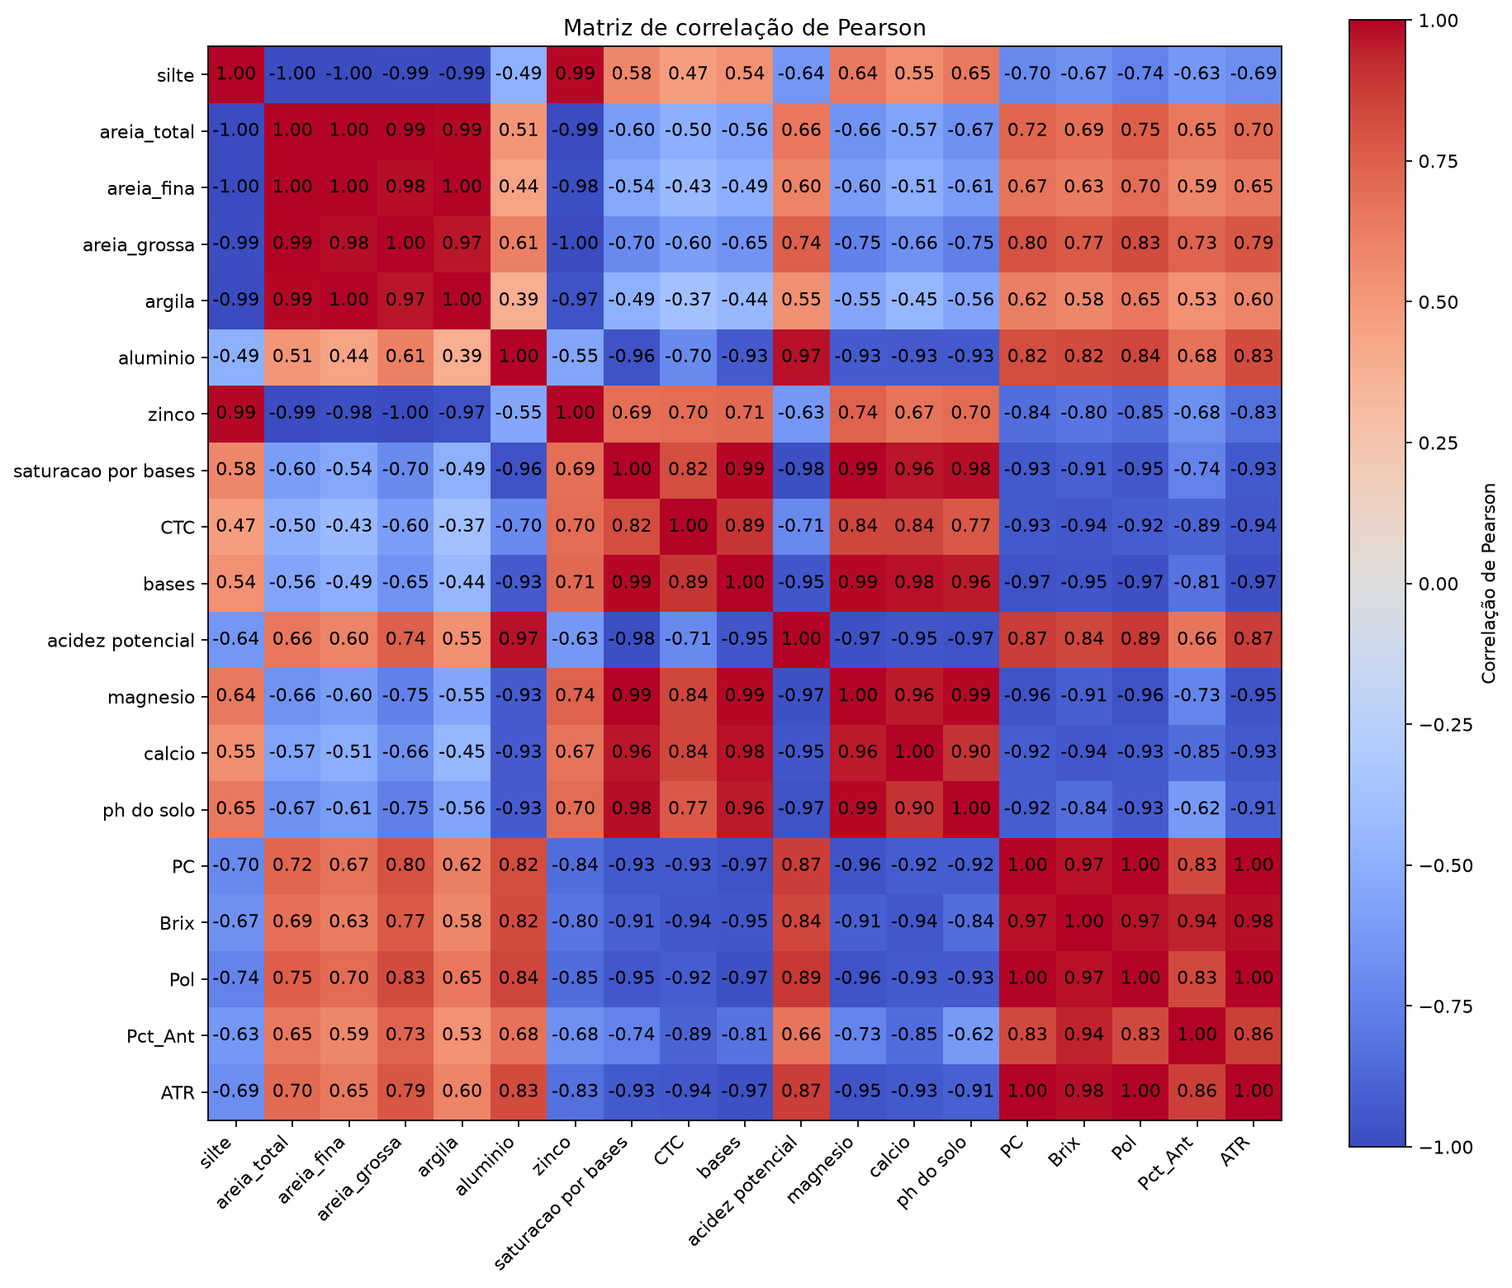
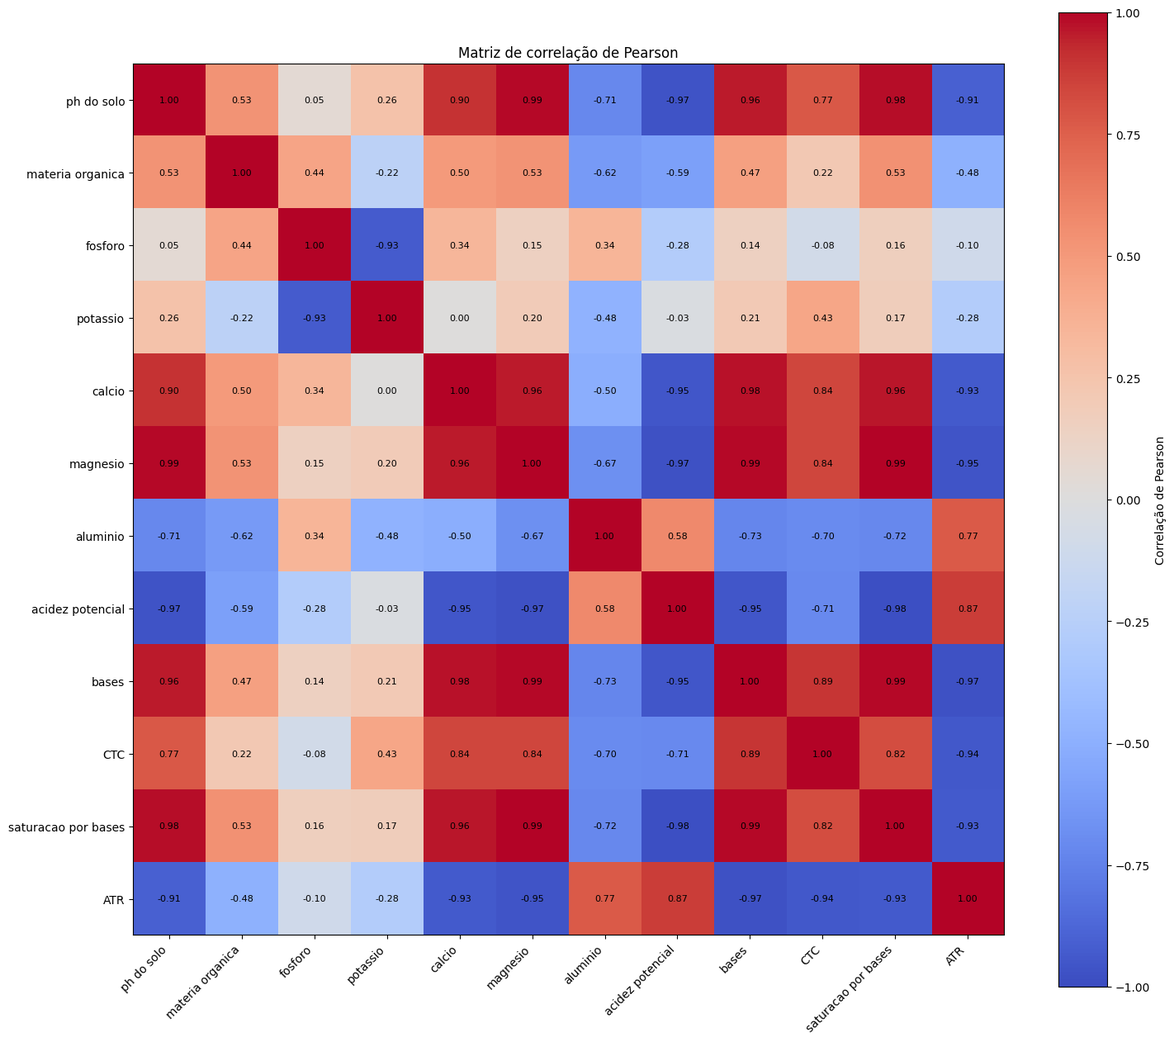
docs: atualiza README e inclui gráficos do notebook

diff --git a/README.md b/README.md
@@ -1,10 +1,10 @@
-# Projeto Integrador I — Solo, soqueira e ATR da cana-de-açúcar
+# Projeto Integrador I — Solo, características da cana e ATR da cana-de-açúcar
 
-Repositório do artigo “Análise da influência das características do solo e da saúde da soqueira no ATR da cana-de-açúcar”, desenvolvido em 2026 no Curso Superior de Tecnologia em Ciência de Dados para o Agronegócio da FATEC Catanduva.
+Repositório do artigo “Análise da influência das características do solo no ATR da cana-de-açúcar”, desenvolvido em 2026 no Curso Superior de Tecnologia em Ciência de Dados para o Agronegócio da FATEC Catanduva.
 
 ## Objetivo e escopo
 
-Analisar a influência dos atributos do solo e da saúde da soqueira no ATR (Açúcar Total Recuperável, em kg/t de cana) e avaliar sua estimativa antes da colheita, apoiando o planejamento da produção e da receita do produtor.
+Analisar a influência dos atributos do solo e das características do solo no ATR (Açúcar Total Recuperável, em kg/t de cana) e avaliar sua estimativa antes da colheita, apoiando o planejamento da produção e da receita do produtor.
 
 O artigo propõe uma pesquisa aplicada e quantitativa, exploratória, descritiva e preditiva, em estudo de caso em Marapoama-SP, região de Catanduva, com dados fornecidos pela Associação dos Fornecedores de Cana da Região de Catanduva (AFCRC). A unidade analítica prevista é uma linha por talhão e safra.
 
@@ -12,79 +12,95 @@ O artigo propõe uma pesquisa aplicada e quantitativa, exploratória, descritiva
 
 O estudo adota o CRISP-DM para organizar entendimento do negócio e dos dados, preparação, modelagem, avaliação e implantação, conforme o avanço do projeto.
 
-- **Dados:** laudos de solo, registros de soqueira e manejo e boletins de ATR; precipitação como variável complementar, se disponível.
+- **Dados:** laudos de solo, características do solo e manejo e boletins de ATR; precipitação como variável complementar, se disponível.
 - **Preparação:** limpeza, padronização de unidades e identificação dos talhões, análise de ausências e inconsistências e integração por talhão e safra.
 - **Análise e modelo:** estatística descritiva, correlações de Pearson/Spearman e regressão linear simples para estimar o ATR a partir de uma única variável explicativa, ainda a definir. Os demais atributos podem ser explorados sem integrar simultaneamente esse modelo.
 - **Avaliação:** treino/teste na proporção 80/20 proposta no artigo e métricas R², MAE e RMSE. A divisão em treino/teste e as métricas MAE e RMSE ainda precisam ser implementadas, com uma estratégia de separação que considere a ordem temporal dos dados. O R² atual é calculado na própria amostra de ajuste.
 
-## Estado atual e dados
+## Notebook e dados
 
-O [notebook](notebooks/CYBEL.ipynb) contém células de texto que contextualizam cada etapa e implementa:
+O [notebook CYBEL](notebooks/CYBEL.ipynb) explora associações entre atributos do solo, indicadores da cana entregue à usina e ATR. A unidade da análise principal é o **ano civil**. A tabela `dados_anual` reúne seis anos em comum, de 2020 a 2025. O relatório de cana também inclui 2026, mas a base de solo não tem registros pareados para esse ano.
 
-- Leitura e conferência dos CSVs, incluindo dimensões, colunas e valores ausentes.
-- Preparação das tabelas anuais: médias do solo por propriedade, talhão e ano, seguidas de médias anuais; somas e médias ponderadas pela tonelagem para os indicadores da cana.
-- Correlações de Pearson calculadas com laços, gráficos de barras e matriz de correlação.
-- Conferência descritiva do Brix e de sua correlação com o ATR na tabela original de cana, sem a agregação anual.
-- Gráficos de dispersão do ATR em relação à acidez potencial, ao fósforo, ao potássio e ao pH do solo, com identificação dos pontos pelo ano.
-- Cinco ajustes de regressão linear simples, um para cada atributo: pH do solo, acidez potencial, fósforo, potássio e argila. O NumPy ajusta as retas por mínimos quadrados (`np.polyfit`), e cada gráfico apresenta a tendência, o R² e o número de observações; a equação é impressa na saída.
+| Arquivo em `dados tratados` | Conteúdo                                                                                                                            |
+| ----------------------------- | ------------------------------------------------------------------------------------------------------------------------------------ |
+| `DADOS_SOLO_tratados.csv`   | Laudos de solo com data da amostragem, propriedade, talhão, variedade e atributos químicos e de textura.                           |
+| `Cana.csv`                  | Relatório de cana com período, fazenda, tonelagem, cargas e indicadores de qualidade, incluindo ATR.                               |
+| `ART.csv` (opcional)        | Preços relacionados ao ATR por período. Esses valores ficam disponíveis para consulta e não entram nos cálculos desta análise. |
 
-Já há regressões ajustadas, mas ainda não há avaliação em dados de teste. O R² apresentado descreve o ajuste nos mesmos dados utilizados para calcular a reta. Não há divisão em treino/teste, cálculo de MAE/RMSE ou correlação de Spearman implementados. Cada regressão utiliza apenas um atributo; não há modelo com todos os atributos simultaneamente.
+Os arquivos de `dados brutos` ficam fora do versionamento. As figuras do README ficam em `img`.
 
-A integração atual é por ano civil, extraído das datas de solo e do fim do período da cana, e difere da unidade por talhão e safra prevista no artigo. Embora alguns rótulos dos gráficos usem “safras”, os pontos representam anos civis.
+## Guia do notebook
 
-As fontes disponíveis ainda não formam a base por talhão e safra exigida: faltam registros de soqueira/manejo e ATR correspondente por talhão. O ATR agregado não deve ser repetido em cada amostra de solo para criar exemplos de treinamento.
+Os blocos de texto do notebook explicam cada uma das 15 etapas de execução. A tabela resume a sequência e as principais saídas.
 
-Os dados originais ficam locais, fora do versionamento. A base fictícia também não é distribuída no repositório. Antes da integração, será necessário harmonizar nomes e unidades: o artigo denomina o alvo `atr`, enquanto o notebook atual usa `ATR`.
-
-```text
-dados brutos/     # Fontes originais locais, excluídas do Git
-dados tratados/   # CSVs de solo e cana utilizados pelo notebook
-notebooks/       # Notebook com contextualização, código e saídas
-img/             # Imagens da documentação
-resultados/      # Resultados locais, excluídos do Git
-```
-
-## Resultados exploratórios
-
-Os gráficos abaixo foram gerados pelo notebook com as bases locais. O pareamento anual abrange 2020 a 2025, com seis observações; as variáveis de textura têm somente três anos válidos. As correlações não demonstram causalidade nem desempenho de um modelo preditivo.
-
-Atributos do solo e ATR. As barras apresentam a correlação de Pearson e o número de anos válidos (`n`) para cada atributo.
-
-![Correlação dos atributos do solo com o ATR](img/correlacao_solo_atr.png)
-
-Indicadores da cana e ATR. PC, Pol e Brix apresentam associações positivas elevadas nesta amostra. São indicadores ligados à qualidade e ao cálculo do ATR; essas associações não comprovam previsão antes da colheita.
-
-![Correlação dos indicadores da cana com o ATR](img/correlacao_cana_atr.png)
-
-Matriz de correlação. Resume as associações entre as variáveis selecionadas, permitindo observar também relações entre possíveis entradas do modelo. Cada par utiliza os anos com valores disponíveis.
-
-![Matriz de correlação de Pearson](img/matriz_correlacao_pearson.png)
-
-Dispersões e regressões. As novas visualizações estão nas saídas do [notebook](notebooks/CYBEL.ipynb). Os gráficos de dispersão mostram os pares anuais disponíveis e a correlação de Pearson. Os gráficos de regressão acrescentam a reta ajustada, sua equação e o R² na própria amostra. O ajuste exige pelo menos três observações; a regressão com argila utiliza somente os três anos com dados de textura. Esses resultados ainda não validam uma estimativa de ATR em anos futuros.
-
-Os resumos são unidos apenas pelo ano, sem validar correspondência entre propriedades. Portanto, estes resultados são preliminares e precisam dessa conferência antes de interpretações agronômicas.
+| Etapas                                     | O que o notebook faz                                                                                                                                                                                                                                                                                                                                                                             |
+| ------------------------------------------ | ------------------------------------------------------------------------------------------------------------------------------------------------------------------------------------------------------------------------------------------------------------------------------------------------------------------------------------------------------------------------------------------------ |
+| 1–2. Leitura e integração               | Lê os CSVs, confere cabeçalhos e ausências e filtra as linhas de fazenda para excluir os totais do relatório. Calcula médias de solo por propriedade, talhão e ano e dá o mesmo peso a cada grupo com valor disponível. Soma toneladas e cargas e pondera os indicadores da cana pela tonelagem. Combina as tabelas pelo ano da amostragem do solo e pelo ano de `Data_Final` da cana. |
+| 3–5. Variedades e médias                 | Resume atributos do solo em `media_anual_por_variedade` e conta os talhões amostrados por variedade em cada ano. Compara essa participação com o ATR anual agregado da fazenda. Calcula também as médias dos valores disponíveis em `dados_anual`.                                                                                                                                     |
+| 6–9. Correlações                        | Calcula Pearson para os pares anuais disponíveis, imprime o coeficiente e a contagem de pares e gera gráficos de barras e um mapa de calor. O cálculo exige pelo menos três pares e variação nas duas séries.                                                                                                                                                                             |
+| 10–13. Dispersões e regressões          | Mostra pontos identificados pelo ano e tenta ajustar uma regressão linear simples para cada atributo selecionado. Cada ajuste usa um atributo por vez e exige pelo menos três pares. A equação e o R² são calculados na amostra de ajuste.                                                                                                                                                 |
+| 14–15. Conferência e análise por grupos | Lista os anos com alumínio disponível e procura um CSV detalhado para calcular ATR ponderado por variedade, corte e safra. A etapa exige `Talhao`, `Variedade`, `Corte`, `Ton`, `ATR` e uma referência de safra (`Safra`, `Ano` ou `Data_Final`).                                                                                                                             |
 
 ## Resultados e discussão
 
-O pareamento dos dados de solo e de cana resultou em seis observações anuais, de 2020 a 2025. O ano de 2026 ficou fora dessa comparação por não haver registros de solo correspondentes. A unidade efetivamente analisada foi o ano civil, e não uma safra delimitada por calendário agrícola. A média aritmética dos seis valores anuais de ATR foi de 134,32 kg/t de cana, atribuindo o mesmo peso a cada ano. O ATR aumentou de 138,4 kg/t em 2020 para 143,7 kg/t em 2022, seguido de reduções sucessivas até atingir 122,7 kg/t em 2025.
+As figuras abaixo foram extraídas das saídas salvas no notebook. A média aritmética dos seis valores anuais de ATR foi **134,32 kg/t de cana**. O ATR passou de 138,4 kg/t em 2020 para 143,7 kg/t em 2022 e caiu nos anos seguintes, chegando a 122,7 kg/t em 2025.
 
-Entre os cinco atributos selecionados para as regressões simples, o pH do solo apresentou forte associação linear negativa com o ATR (r = −0,906). A reta ajustada teve inclinação de −26,10, correspondendo a uma diferença estimada de −26,10 kg/t de ATR para cada unidade adicional de pH, dentro do intervalo observado. A acidez potencial apresentou forte associação positiva (r = 0,868), com inclinação de 2,24 kg/t de ATR por unidade do atributo registrada na base. Essas relações descrevem a variação conjunta das médias anuais e não demonstram que alterações no pH ou na acidez tenham causado mudanças no ATR. Tampouco fundamentam recomendações de manejo para aumentar a acidez ou reduzir o pH.
+### Variedades dos talhões amostrados
 
-As associações do fósforo (r = −0,098) e do potássio (r = −0,278) com o ATR foram fracas na amostra analisada. Suas regressões apresentaram inclinações de −0,19 e −2,95 kg/t de ATR por unidade do respectivo atributo. A magnitude dessas inclinações depende das unidades e escalas das variáveis e, por isso, não permite comparar diretamente sua importância. Para a argila, a correlação foi positiva (r = 0,599), com inclinação de 0,06 kg/t por unidade registrada na base. Esse ajuste utilizou **apenas três observações anuais**, o que restringe sua interpretação e reforça a necessidade de conferir os registros de textura antes de conclusões agronômicas.
+As barras mostram a participação de cada variedade na contagem de talhões amostrados com variedade identificada. A linha usa o eixo da direita e representa o ATR anual da fazenda, ponderado pelas toneladas. A participação pode variar com o esforço de amostragem. Para medir a participação na área plantada, seriam necessários dados de área por variedade.
 
-Os indicadores da cana Pol (r = 0,997), PC (r = 0,998) e Brix (r = 0,982) apresentaram correlações positivas elevadas com o ATR na tabela anual pareada. Como estão relacionados à qualidade tecnológica da cana e ao cálculo do ATR, essas associações não constituem evidências independentes de capacidade preditiva antes da colheita. A disponibilidade desses indicadores no momento em que se pretende estimar o ATR também precisa ser considerada em uma futura modelagem.
+![Participação das variedades nos talhões amostrados e ATR anual da fazenda](img/participacao_variedades_atr.png)
 
-Os gráficos de dispersão permitiram identificar os anos e examinar visualmente a direção das associações. As retas de regressão sintetizaram essas tendências, mas foram ajustadas com somente seis pontos — ou três, no caso da argila — e podem ser fortemente influenciadas por observações individuais. O R² foi calculado nos mesmos dados utilizados para ajustar cada reta; portanto, descreve o ajuste na própria amostra e não representa desempenho em anos novos. Não foram realizados divisão em treino/teste, cálculo de MAE/RMSE ou testes de significância estatística.
+### Correlações de Pearson
 
-A agregação anual também limita a interpretação: as médias não representam a variabilidade entre talhões, e a associação observada entre anos não pode ser automaticamente atribuída a cada talhão. Além disso, o pareamento foi realizado somente pelo ano, sem validação automática da correspondência entre propriedades. Informações de manejo, clima e saúde da soqueira não foram incorporadas a esses ajustes, de modo que sua participação nas variações do ATR permanece sem avaliação.
+Entre os atributos selecionados para regressão, pH (r = −0,906) e acidez potencial (r = 0,868) apresentaram as associações mais fortes com o ATR. Fósforo (r = −0,098) e potássio (r = −0,278) tiveram associações fracas. Para alumínio, r = 0,771 com quatro anos válidos. O resultado é sensível a poucos pontos e ao tratamento de 378 zeros como ausentes. Essa regra precisa ser conferida com o laboratório.
 
-## Conclusões
+![Correlação dos atributos do solo com o ATR](img/correlacao_solo_atr.png)
 
-A análise identificou associações entre o ATR e atributos médios anuais do solo no período de 2020 a 2025. Entre os cinco atributos escolhidos para regressão, pH e acidez potencial apresentaram as associações lineares mais fortes, com direções negativa e positiva, respectivamente. Fósforo e potássio apresentaram associações fracas, enquanto a análise de argila ficou limitada a três anos com dados disponíveis. Essa comparação se refere ao conjunto selecionado para regressão, e não a todos os atributos de solo explorados no notebook.
+PC (r = 0,998), Pol (r = 0,997) e Brix (r = 0,982) tiveram correlações elevadas. Esses indicadores estão ligados à qualidade tecnológica da cana e ao cálculo do ATR. Seu uso em um modelo pré-colheita dependeria de estarem disponíveis no momento da estimativa.
 
-Os resultados contribuem para descrever os padrões observados na base estudada e formular novas hipóteses. Entretanto, o número reduzido de observações, a agregação anual e a ausência de avaliação em dados independentes impedem concluir que os atributos do solo causaram as variações do ATR ou que as regressões estejam validadas para previsão antes da colheita. A influência da saúde da soqueira, prevista no objetivo do projeto, permanece uma etapa a investigar quando houver dados adequados.
+![Correlação dos indicadores da cana com o ATR](img/correlacao_cana_atr.png)
 
-Para avançar, propõe-se conferir a consistência e as unidades dos registros de textura, validar a correspondência entre propriedades e, conforme a disponibilidade das fontes, integrar solo e cana por **talhão e safra**. A ampliação da série histórica e a inclusão de informações de manejo, clima e saúde da soqueira podem apoiar uma análise mais completa. Uma futura avaliação preditiva deverá respeitar a ordem temporal dos dados e utilizar observações independentes, evitando atribuir ao solo efeitos que a análise atual não permite distinguir.
+A matriz mostra as associações entre um subconjunto dos atributos do solo e o ATR. Cada par usa os anos disponíveis para as duas variáveis, por isso os coeficientes podem ter números diferentes de observações. As células cinzas, com `s/d`, indicam coeficientes indisponíveis.
+
+![Mapa de calor das correlações de Pearson](img/matriz_correlacao_pearson.png)
+
+### Dispersões e regressões lineares
+
+Cada ponto representa um ano civil. As dispersões permitem identificar quais anos sustentam as tendências e observar pontos que se afastam dos demais.
+
+<details>
+<summary>Ver os quatro gráficos de dispersão</summary>
+
+![Dispersão de acidez potencial e ATR](img/dispersao_acidez_atr.png)
+![Dispersão de fósforo e ATR](img/dispersao_fosforo_atr.png)
+![Dispersão de potássio e ATR](img/dispersao_potassio_atr.png)
+![Dispersão de pH do solo e ATR](img/dispersao_ph_atr.png)
+
+</details>
+
+A execução salva gerou quatro regressões com seis observações cada. As inclinações foram −26,10 para pH, 2,24 para acidez potencial, −0,19 para fósforo e −2,95 para potássio, em kg/t de ATR por unidade do respectivo atributo. As escalas dos atributos diferem, portanto as inclinações não medem diretamente sua importância relativa. A argila tinha apenas dois anos válidos e ficou abaixo do mínimo de três para calcular a correlação e ajustar uma reta.
+
+![Regressão linear do ATR em função do pH do solo](img/regressao_ph_atr.png)
+
+<details>
+<summary>Ver os outros três gráficos de regressão</summary>
+
+![Regressão linear do ATR em função da acidez potencial](img/regressao_acidez_atr.png)
+![Regressão linear do ATR em função do fósforo](img/regressao_fosforo_atr.png)
+![Regressão linear do ATR em função do potássio](img/regressao_potassio_atr.png)
+
+</details>
+
+## Conclusões e limitações
+
+Os resultados descrevem associações entre médias anuais e ajudam a formular hipóteses. O pareamento pelo ano civil não confirma a correspondência por propriedade ou talhão, nem garante que a amostragem de solo antecedeu o período avaliado da cana. Com seis observações e R² calculado na própria amostra, os ajustes ainda precisam de avaliação em dados independentes para sustentar uma previsão. A análise atual também não incorpora medidas de saúde da soqueira.
+
+A composição das variedades pode ser descrita para os talhões amostrados. Para estimar ATR por variedade e corte, falta uma base de cana que identifique esses grupos e contenha as respectivas toneladas e medições de ATR. Na execução salva, a etapa final indicou a ausência de `Talhao`, `Variedade` e `Corte` na base de cana. Antes de interpretar os resultados agronomicamente, é necessário conferir a codificação dos zeros de alumínio, os registros de textura e as unidades dos laudos.
+
+## Execução no Google Colab
+
+Abra `notebooks/CYBEL.ipynb` no Colab e coloque os CSVs em `/content/ProjetoIntegrador_I/dados tratados` ou `/content/dados tratados`. A primeira célula lê os arquivos da pasta, detecta o separador e aceita UTF-8 com ou sem BOM. Execute as células em ordem. Após trocar os arquivos ou os critérios de tratamento, reexecute o notebook para atualizar as saídas.
 
 ## Execução no VS Code
 
@@ -102,14 +118,14 @@ Use **Run All / Executar Tudo** para executar todas as células em ordem, ou **S
 
 **Dependências do ambiente:** `requirements.txt` contém as bibliotecas diretamente utilizadas e o kernel necessário para executar o notebook no VS Code:
 
-| Ferramenta | Uso no projeto |
-| --- | --- |
-| Pandas | Leitura dos CSVs, preparação das tabelas, datas e conferências estatísticas. |
-| NumPy | Ajuste das regressões lineares com `polyfit` e ordenação dos pontos com `argsort`. |
-| Matplotlib | Gráficos de barras, matriz de correlação, dispersões e retas de regressão. |
-| ipykernel | Execução do notebook no kernel Python do ambiente `.venv`. |
+| Ferramenta | Uso no projeto                                                                            |
+| ---------- | ----------------------------------------------------------------------------------------- |
+| Pandas     | Leitura dos CSVs, preparação das tabelas, datas e conferências estatísticas.          |
+| NumPy      | Ajuste das regressões lineares com `polyfit` e ordenação dos pontos com `argsort`. |
+| Matplotlib | Gráficos de barras, matriz de correlação, dispersões e retas de regressão.           |
+| ipykernel  | Execução do notebook no kernel Python do ambiente `.venv`.                            |
 
-As versões registradas correspondem ao ambiente utilizado na execução atual. As dependências internas dessas bibliotecas são instaladas automaticamente pelo pip. `pathlib` e `io` fazem parte da biblioteca padrão do Python e não exigem instalação separada.
+As versões registradas correspondem ao ambiente local do projeto. As dependências internas dessas bibliotecas são instaladas automaticamente pelo pip. `pathlib` faz parte da biblioteca padrão do Python.
 
 **Organização do trabalho:** Git/GitHub para versionamento, Trello para tarefas e Overleaf para redação do artigo.
 
